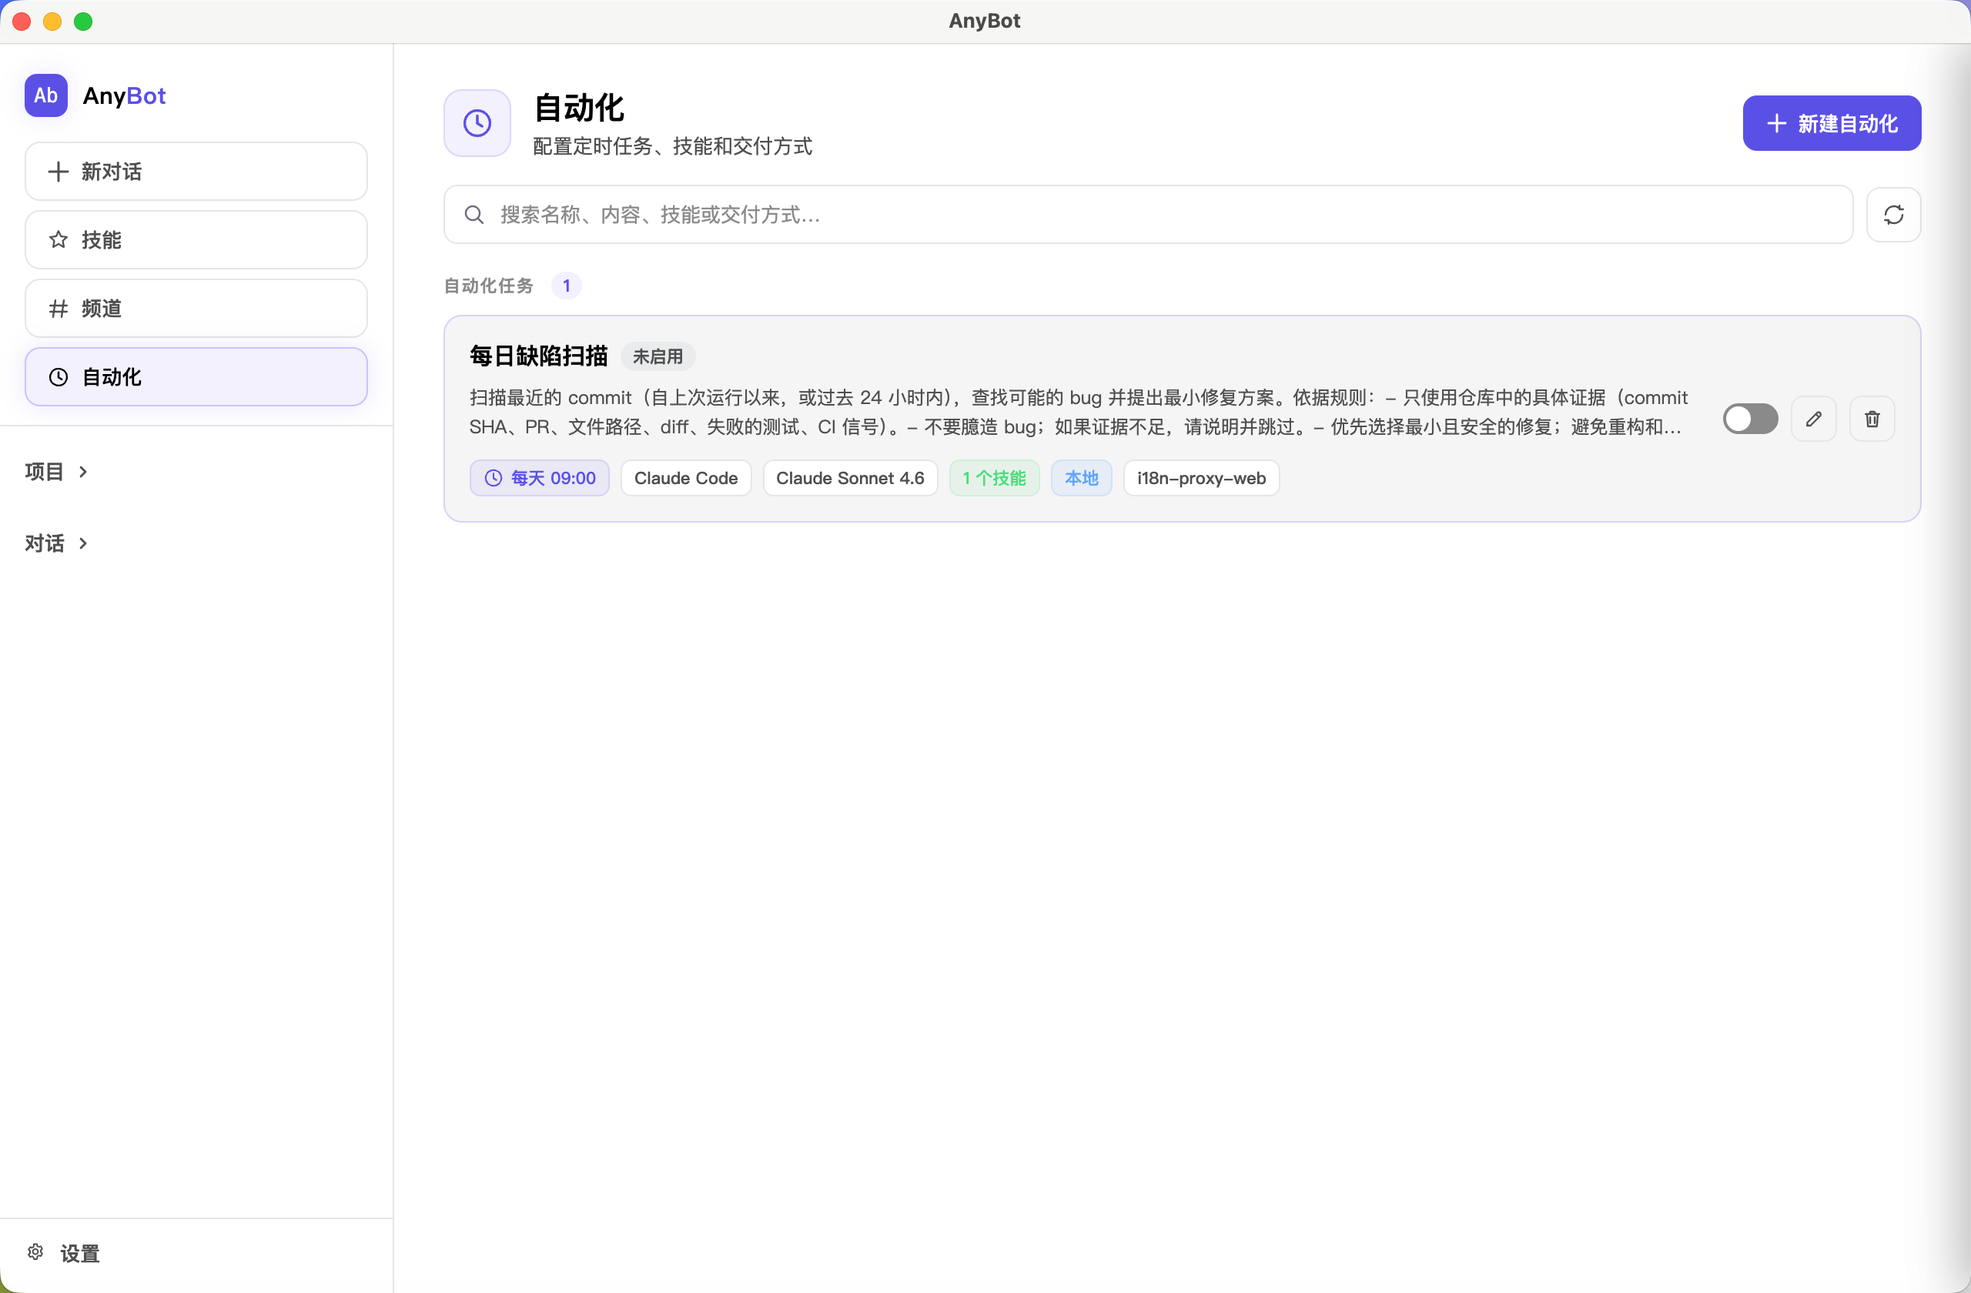
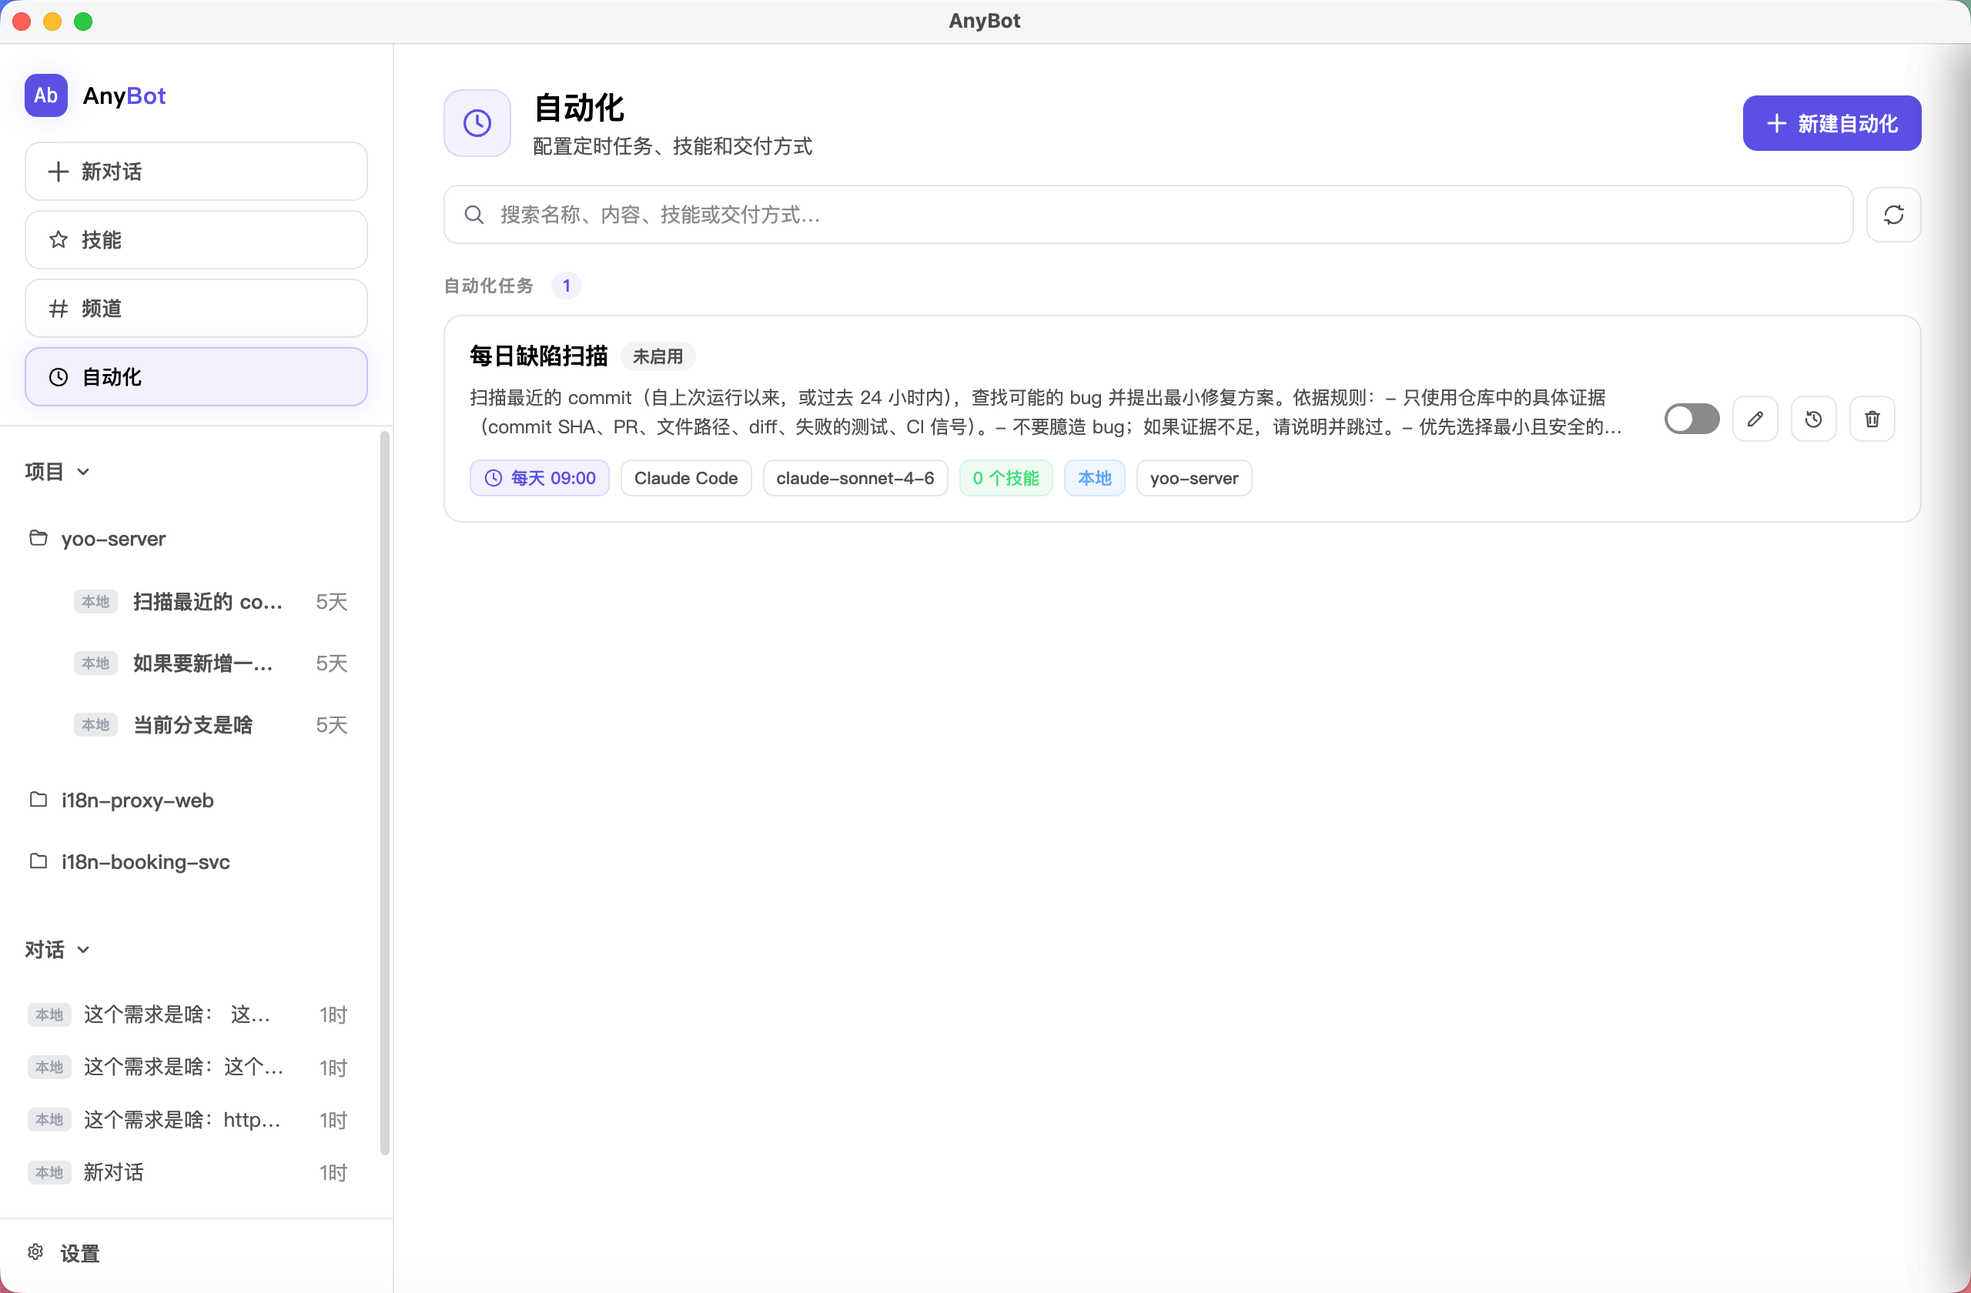
add: 文档更新

diff --git a/README_EN.md b/README_EN.md
@@ -7,11 +7,11 @@
 ![Release](https://img.shields.io/github/v/release/1935417243/AnyBot)
 ![Platform](https://img.shields.io/badge/platform-macOS%20%7C%20Windows%20%7C%20Linux-blue)
 
-AnyBot is a local AI Coding Agent console and remote entry point that lets you control and manage AI Coding Agents on your computer through the desktop app, Web UI, Weixin, QQ, Telegram, Feishu, and other channels.
+AnyBot is a local AI Coding Agent console and remote entry point that lets you control and manage AI Coding Agents on your computer through the desktop app, Web UI, Weixin, QQ, Telegram, Feishu, DingTalk, and other channels.
 
-When Codex CLI or Claude Code is installed locally, AnyBot can call them directly and reuse your existing local capabilities. If you do not want to use the machine's global model configuration, you can also configure separate model mappings inside AnyBot for the Codex / Claude Code channels and connect compatible models such as DeepSeek and OpenAI.
+AnyBot uses the platform native binaries provided by `@openai/codex-sdk` and `@anthropic-ai/claude-agent-sdk` by default, so users do not need to install `codex` or Claude Code globally. If needed, you can still configure an external CLI from settings. Provider settings, model mappings, environment variables, and MCP configuration are stored inside AnyBot.
 
-Whether or not Codex CLI / Claude Code is installed locally, Providers, model mappings, and environment variables configured inside AnyBot only take effect inside AnyBot and do not affect the machine's global configuration.
+If you do not want to use the machine's global model configuration, you can configure separate compatibility endpoints and model mappings inside AnyBot for Codex / Claude Code, connecting DeepSeek, Kimi, MiniMax, VibeAPI, or other Anthropic API-compatible services. AnyBot's settings only take effect inside AnyBot and do not affect the machine's global configuration.
 
 The desktop app supports **macOS** and **Windows**; running from source supports **macOS**, **Linux**, and **Windows**.
 
@@ -19,17 +19,18 @@ The desktop app supports **macOS** and **Windows**; running from source supports
 
 ## Features
 
-- **Multiple Providers**: switch between Codex CLI and Claude Code from the Web UI or channel commands.
-- **Compatible model access**: configure compatible model Providers such as DeepSeek and OpenAI, plus model mappings inside AnyBot. These mappings only take effect inside AnyBot and stay fully isolated from the global configuration of the native Codex CLI and Claude Code.
+- **Multiple Providers**: switch between Codex SDK/CLI and Claude Code from the Web UI or channel commands.
+- **Compatible model access**: configure the Codex Responses compatibility layer and Claude Code Anthropic-compatible interface inside AnyBot, including Base URL, API Key, and model mappings.
+- **MCP servers**: manually add, enable, disable, check, and inspect MCP Server logs from settings. Enabled servers are passed to Codex / Claude Code.
 - **Agent Web UI**: local chat UI with Markdown, code highlighting, streamed Agent events, cancellation, context compaction, and persistent history.
 - **Project workspaces**: manage projects in the sidebar; project sessions use the project path as the Provider working directory.
 - **Skills and slash menu**: browse, enable, disable, and delete skills; the `/` picker shows Provider-specific skills and commands.
 - **Attachments**: upload by button, pasted images, or drag and drop. The upload limit is 50MB per file. Image support depends on the current Provider.
 - **Change review**: after Agent edits, inspect diffs and approve or revert changes from the Web UI.
-- **Channel integrations**: Feishu long connection, QQ Bot WebSocket, Telegram long polling, and personal Weixin.
+- **Channel integrations**: Feishu long connection, DingTalk Stream, QQ Bot WebSocket, Telegram long polling, and personal Weixin.
 - **Proactive messaging**: send notifications to configured channel owners through `/api/send`.
 - **Automations**: run local Agent tasks on minute, daily, weekly, or Cron schedules; activity stays visible in the Web UI, and final results can be saved locally or delivered to enabled channels.
-- **Desktop app**: Electron shell, tray support, login item support, and in-app updates for Windows installer builds.
+- **Desktop app**: Electron shell, tray support, login item support, in-app download and installation for Windows installer builds, and GitHub latest-release checks on other platforms.
 
 ---
 
@@ -54,13 +55,14 @@ The desktop app supports **macOS** and **Windows**; running from source supports
 ```mermaid
 flowchart LR
     User[User] --> WebUI[Web UI]
-    User --> Channels[Feishu / QQ / Telegram / Weixin]
+    User --> Channels[Feishu / DingTalk / QQ / Telegram / Weixin]
     WebUI --> Runner[ChatRunner]
     Channels --> Runner
     Runner --> Providers[Provider Layer]
     Providers --> Codex[Codex CLI]
     Providers --> Claude[Claude Code]
     Providers --> ThirdParty[Third-party Models]
+    Providers --> MCP[MCP Servers]
     Runner --> Workspace[Project Workspaces]
     Runner --> Skills[Skills]
     Runner --> Review[Change Review]
@@ -80,9 +82,9 @@ Download the package for your platform from [GitHub Releases](https://github.com
 | Windows | `AnyBot-Setup-x.x.x.exe` | Install and launch from Start Menu or desktop shortcut |
 | macOS | `AnyBot-x.x.x-*.dmg` | Open the `.dmg`, drag `AnyBot.app` into Applications, then launch |
 
-The desktop app does not require users to install Node.js manually. Providers, models, permissions, projects, channels, and privacy settings can be configured in the Web UI.
+The desktop app does not require users to install Node.js manually. Providers, models, MCP, permissions, projects, channels, automations, and privacy settings can be configured in the Web UI.
 
-Windows installer builds support **Settings -> About -> Check for updates**. On macOS, download the new `.dmg` manually and overwrite the existing app.
+Windows installer builds support checking, downloading, and restarting to install updates from **Settings -> About -> Check for updates**. On macOS, download the new `.dmg` manually and overwrite the existing app. Source builds and platforms without automatic updates can still check the latest GitHub release from the About page.
 
 #### macOS Says the App Is Damaged
 
@@ -100,8 +102,8 @@ Configure at least one Provider:
 
 | Provider | Runtime | Notes |
 |----------|--------------|-------|
-| Codex CLI | Uses the platform native binary provided by `@openai/codex-sdk` by default, so a globally installed `codex` command is not required. Native Codex mode still requires Codex login or API configuration; when **Responses compatibility layer** is enabled, Codex uses AnyBot's local compatibility service configuration and model mapping | Session resume, sandbox, image input |
-| Claude Code | Uses the platform native binary provided by `@anthropic-ai/claude-agent-sdk` by default, so a global Claude Code install is not required. Configure an external executable from advanced settings only when needed. See the [Claude Code docs](https://code.claude.com/docs/en/overview) | Session resume, sandbox mapping, streamed Agent events |
+| Codex | Uses the platform native binary provided by `@openai/codex-sdk` by default, so a globally installed `codex` command is not required. When **Responses compatibility layer** is enabled, Codex only uses AnyBot's compatibility service configuration and model mapping | Session resume, sandbox, image input, MCP |
+| Claude Code | Uses the platform native binary provided by `@anthropic-ai/claude-agent-sdk` by default, so a global Claude Code install is not required. Configure an external executable from advanced settings only when needed. See the [Claude Code docs](https://code.claude.com/docs/en/overview) | Session resume, sandbox mapping, streamed Agent events, MCP |
 
 ### 3. Run From Source
 
@@ -130,23 +132,27 @@ npm run bot:stop
 
 | Provider | Status | Image input | Notes |
 |----------|--------|-------------|-------|
-| `codex` | Available | Supported | Codex SDK/CLI with sandbox mode and Agent events |
-| `claude-code` | Available | Not currently supported | Claude Agent SDK with session resume, permission modes, and context compaction |
+| `codex` | Available | Supported | Codex SDK/CLI with sandbox, Agent events, context usage, and MCP |
+| `claude-code` | Available | Not currently supported | Claude Agent SDK with session resume, permission modes, context compaction, streamed Agent events, and MCP |
 
 Provider and model choices are saved from the Web UI. Each Provider remembers its last selected model.
 
-## DeepSeek Support
+## Compatible Model Support
 
-AnyBot can connect Codex to DeepSeek-compatible services through the Codex Responses compatibility layer. When enabled, the Codex Provider uses AnyBot's local compatibility service configuration and model mapping with an isolated `CODEX_HOME`, so it does not affect the user's global `~/.codex` configuration.
+AnyBot can configure Anthropic API-compatible services separately for Codex and Claude Code from settings. Built-in Base URL suggestions currently include DeepSeek, Kimi, MiniMax, and VibeAPI; you can also manually enter another compatible service URL.
+
+Codex connects to compatible services through the **Responses compatibility layer**. When enabled, the Codex Provider uses AnyBot's local compatibility service configuration and model mapping with an isolated `CODEX_HOME`, so it does not affect the user's global `~/.codex` configuration.
+
+Claude Code connects through the **Anthropic-compatible interface**. When enabled, the Claude Code Provider prefers AnyBot's configured Base URL, API Key, Auto/Opus/Sonnet/Haiku/Subagent model mappings, and optional external CLI path.
 
 Common use cases:
 
-- Use DeepSeek-compatible models to drive the local Codex Agent.
+- Use compatible models to drive the local Codex or Claude Code Agent.
 - Select stable model aliases from the Web UI.
-- Remotely call the local Agent from Feishu, QQ, Telegram, or personal Weixin.
+- Remotely call the local Agent from Feishu, DingTalk, QQ, Telegram, or personal Weixin.
 - Combine project workspaces, skills, and automations for code analysis, scheduled checks, document generation, and similar local Agent tasks.
 
-After enabling **Responses compatibility layer** under **Settings -> Providers -> Codex**, the chat box shows only the stable aliases `gpt-5.5`, `gpt-mini`, and `gpt-codex`. The actual upstream models are controlled by the mapping in settings.
+After enabling **Responses compatibility layer** under **Settings -> Providers -> Codex**, the chat box shows only the stable aliases `gpt-5.5`, `gpt-mini`, and `gpt-codex`. The actual upstream models are controlled by the mapping in settings. The Claude Code compatibility interface maintains mappings by purpose: Auto, Opus, Sonnet, Haiku / Fast, and Subagent.
 
 ---
 
@@ -161,7 +167,7 @@ The Web UI is the recommended entry point:
 - File uploads, image preview, and local image access.
 - Slash picker for Provider-specific skills, projects, and native Provider commands.
 - Change review with diff inspection, approve, and revert.
-- Provider, model, sandbox/permission, appearance, logs, data import/export, and channel settings.
+- Provider, model, MCP, sandbox/permission, appearance, logs, data import/export, and channel settings.
 - Provider-isolated skill management.
 - Automation task management: configure schedule, Provider, model, project, skills, and delivery method; the local scheduler creates a new session for each run.
 
@@ -174,7 +180,8 @@ Channel support varies by platform protocol:
 | Channel | Transport | Input | Output | Notes |
 |---------|-----------|-------|--------|-------|
 | Feishu | Long connection events | Text, images | Text, images, `FILE:` files | Group chats reply on mention by default |
-| QQ Bot | WebSocket gateway | Text | Text | Supports guild, group, C2C/direct events |
+| DingTalk | Stream robot events | Text, images, files | Markdown, images, `FILE:` files | Direct chats auto-save Owner; attachments are limited to 20MB |
+| QQ Bot | WebSocket gateway | Text, images, files | Markdown, images | Supports guild, group, C2C/direct events; non-image files are returned as local paths |
 | Telegram | Bot API long polling | Text, images | Text | Captions are included as context; long replies are split |
 | Personal Weixin | Weixin channel protocol | Text, images, files | Text, images, `FILE:` files | QR login, no OpenClaw required |
 
@@ -201,6 +208,13 @@ Channel config is stored in `.data/channels.json` and is best managed from the W
     "appSecret": "",
     "ownerChatId": ""
   },
+  "dingtalk": {
+    "enabled": false,
+    "appId": "",
+    "appSecret": "",
+    "robotCode": "",
+    "ownerChatId": ""
+  },
   "telegram": {
     "enabled": false,
     "token": "",
@@ -218,6 +232,26 @@ Channel config is stored in `.data/channels.json` and is best managed from the W
 }
 ```
 
+### Feishu
+
+Create an app in the Feishu Open Platform, enable bot capability and long connection mode, subscribe to `im.message.receive_v1`, and grant message sending permissions. To handle images, also grant message resource read permissions.
+
+### DingTalk
+
+Create a Stream robot app in the DingTalk Open Platform, then fill in the App Key and App Secret. After the robot receives a message, AnyBot automatically caches `robotCode`; the first direct chat with the robot automatically records `ownerChatId` for proactive messaging and automation delivery.
+
+### QQ Bot
+
+Create a bot app in the QQ Open Platform, get the App ID and App Secret, and configure message receive permissions. The current implementation supports guild/channel messages, group messages, and C2C/direct events.
+
+### Telegram
+
+Create a bot through [@BotFather](https://t.me/BotFather) and get the Bot Token. In groups, mention the bot or use commands with the bot name to trigger replies.
+
+### Personal Weixin
+
+After enabling the Weixin channel, the first startup shows a QR code. Scan it with personal Weixin to bind. After binding, AnyBot writes back `accountId`, `token`, and `ownerChatId`. If the login state expires, clear `weixin.token` and restart to bind again.
+
 ---
 
 ## Skills and Slash
@@ -233,6 +267,14 @@ The Web UI `/` picker shows skills, projects, and commands for the current Provi
 
 ---
 
+## MCP Servers
+
+MCP Servers are managed under **Settings -> Providers -> MCP**, and their configuration is stored in `.data/app-settings.json`. AnyBot currently supports pasting an `mcpServers` JSON object or a single Server config containing `command` / `url`; supported types are `stdio`, `http`, and `sse`.
+
+Enabled MCP Servers are checked on app startup. You can also refresh, recheck, view logs, disable, or delete them from settings. After verification, the same MCP configuration is passed to Codex and Claude Code: Codex receives Codex CLI `mcp_servers` config, while Claude Code receives Claude Agent SDK `mcpServers` config.
+
+---
+
 ## Proactive Messaging
 
 AnyBot keeps a lightweight local API so scripts can push notifications to configured channel owners. Common uses include deployment results, scheduled task output, or local automation alerts.
@@ -243,7 +285,7 @@ curl -X POST http://localhost:19981/api/send \
   -d '{"channel": "telegram", "message": "Deploy finished"}'
 ```
 
-`channel` can be `feishu`, `qqbot`, `telegram`, or `weixin`. The target channel needs `ownerChatId`.
+`channel` can be `feishu`, `dingtalk`, `qqbot`, `telegram`, or `weixin`. The target channel needs `ownerChatId`.
 
 ---
 
@@ -262,13 +304,28 @@ Runtime data defaults to `.data/`, and logs default to `.run/`. Desktop builds u
 Common files:
 
 - `.data/chat.db`: sessions, messages, projects, and automations.
-- `.data/app-settings.json`: app settings.
+- `.data/app-settings.json`: app settings, Provider runtime configuration, and MCP Server configuration.
 - `.data/model-config.json`: Provider and model selection.
 - `.data/runtime-config.json`: sandbox defaults.
 - `.data/channels.json`: channel config.
 - `.data/disabled-skills.json`: skill enabled state.
 - `.data/change-reviews/`: change review snapshots.
 - `.data/codex/`: isolated `CODEX_HOME` used by the Codex Responses compatibility layer, including Codex sessions and skills.
+- `.data/claude-code/`: isolated `CLAUDE_CONFIG_DIR` used by the Claude Code Anthropic-compatible interface.
+
+---
+
+## How It Works
+
+- `src/index.ts` starts the Provider, Web service, enabled channels, desktop update checks, and MCP Server startup verification.
+- `src/chat-runner.ts` is the shared orchestration layer for Web UI and channel messages. It handles Provider sessions, project working directories, prompts, message persistence, streamed events, and change review.
+- `src/automation-scheduler.ts` is the local automation scheduler. It skips missed runs after restart, triggers due tasks, records run history, and delivers final results.
+- Web sessions and channel sessions bind to native Provider sessions, and follow-up messages use session resume to keep context.
+- Enabled MCP Servers are included in Provider call configuration for Codex and Claude Code tasks.
+- Project sessions use the project directory as the Provider working directory; normal chats use the default working directory.
+- Web UI uploads are saved under `tmp/uploads/` inside the working directory.
+- Local image paths and `FILE: /path/to/file.ext` directives in Agent replies are uploaded only for channels that support attachment return.
+- Logs are single-line JSON files split by date and time under `.run/`, with a default retention of 3 days.
 
 ---
 
@@ -277,7 +334,7 @@ Common files:
 ```text
 AnyBot/
 ├── src/
-│   ├── index.ts                    # Entry: Providers, Web service, channels
+│   ├── index.ts                    # Entry: Providers, Web service, channels, MCP checks, updates
 │   ├── chat-runner.ts              # Session orchestration, Provider calls, events, persistence
 │   ├── automation-scheduler.ts     # Local automation scheduling, run history, delivery
 │   ├── app-settings.ts             # App settings
@@ -288,7 +345,7 @@ AnyBot/
 │   ├── lark.ts                     # Feishu API helpers
 │   ├── message.ts                  # Message parsing
 │   ├── providers/                  # Provider implementations
-│   ├── channels/                   # Weixin, Telegram, Feishu, QQ integrations
+│   ├── channels/                   # Weixin, Telegram, Feishu, DingTalk, QQ integrations
 │   ├── web/                        # Express API, SQLite storage, Web UI static files
 │   │   ├── routes/                 # Domain route modules
 │   │   ├── services/               # Shared service logic
